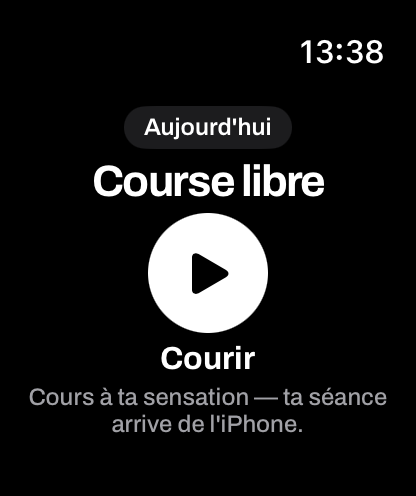
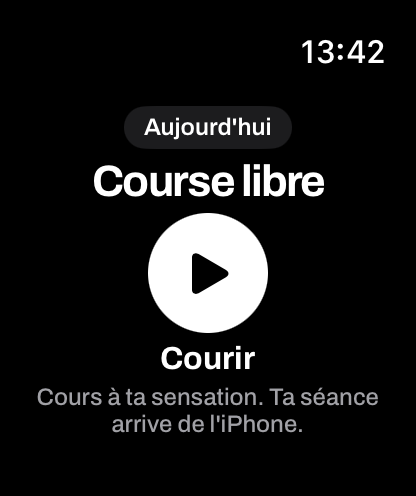
La capture de la montre suit sa phrase sans tiret ; PROGRESS.md : plus de tiret cadratin dans les textes de l'app
Claude-Session: https://claude.ai/code/session_01EC9x8EMYJdDtLWtpTwUZDH

Changed region(s): [[0.0625, 0.756, 0.9375, 0.8165], [0.7188, 0.0605, 0.9375, 0.1512]]

diff --git a/PROGRESS.md b/PROGRESS.md
@@ -8924,3 +8924,18 @@ sortie à vélo. `RunRecord.rythmeEcrit` et `rythmeLibelle` (fin de `RunRecord.s
 « — » rendu tel quel. Le résumé dit « Vitesse moyenne » à vélo. Cinq tests (`RythmeDuReleveTests`). Au passage, la carte de partage écrit « 5:18/km » collé (la règle de l'espace de `TimeFormat`) au lieu de « 5:18 /km ».
 **Pas vérifié** : le rendu d'une sortie à vélo ou de nage à l'écran (la graine de capture n'en pose pas). Les phrases de la feuille de séance gardent « /km » en littéral : ce sont des allures de course à pied (`session.pace`),
 et une séance sans allure n'écrit pas l'unité. Les deux clés de catalogue « KM » et « M D+ », sans usage depuis le débrief, sont retirées.
+
+## Plus de tiret cadratin dans les textes de l'app (21 novembre)
+
+Le tiret cadratin est de la ponctuation française légitime ; sa répétition mécanique se lit comme un tic, et Charlotte l'a fait retirer. **177 phrases du catalogue** ont été réécrites en trois langues, une par une, avec le
+séparateur que la phrase demande : un point et une majuscule (« Annulé. Ton programme n'a pas changé. »), deux-points (« Impossible d'enregistrer : … », « Charges renforcées : pour un niveau confirmé »), une virgule
+(« …selon ta forme, pas séance par séance »), ou des parenthèses (la phrase sur ce qui appartient au Club). **50 traductions** sous des clés techniques (les sous-titres de séance `session.*.subtitle`, trois phrases anglaises) aussi.
+Les textes du code qui s'affichent ont suivi : les sous-titres de repli de `AdaptivePlanEngine` (l'app affiche le catalogue par `kind`, le texte du code ne sert qu'aux anciens plans), les textes de démonstration de `CaptureSeed`,
+la carte défi (« base · 40 % »), l'objet du mail de retour. Deux entrées orphelines (« — %lld confirmé ») supprimées.
+
+**Le coach ne doit plus en écrire** : `CoachLanguage` (consigne de style et consigne vocale, dans les trois langues) lui interdit le tiret cadratin. **Pas vérifié** : que ses réponses suivent la consigne, ce qui ne se voit qu'à
+l'usage.
+
+**Un garde** : `check_tirets.py` (et `test_tirets.py`, 8 cas) lit le catalogue, clés et traductions, et refuse tout tiret cadratin ; étape `testflight.yml`. Le « — » SEUL (espace réservé d'une valeur absente) est permis.
+**Restes volontaires** : les commentaires de code, les messages d'assertion des tests, les textes de développement (`Sauvegarde`), le « — » seul. **Pas vérifié** : le rendu de chaque phrase à l'écran ; certaines sont un peu plus
+longues et pourraient serrer dans un gabarit étroit. La capture montre, dont la phrase du bas a changé (« Cours à ta sensation. Ta séance arrive de l'iPhone. »), a été refaite et regardée dans les trois langues.
